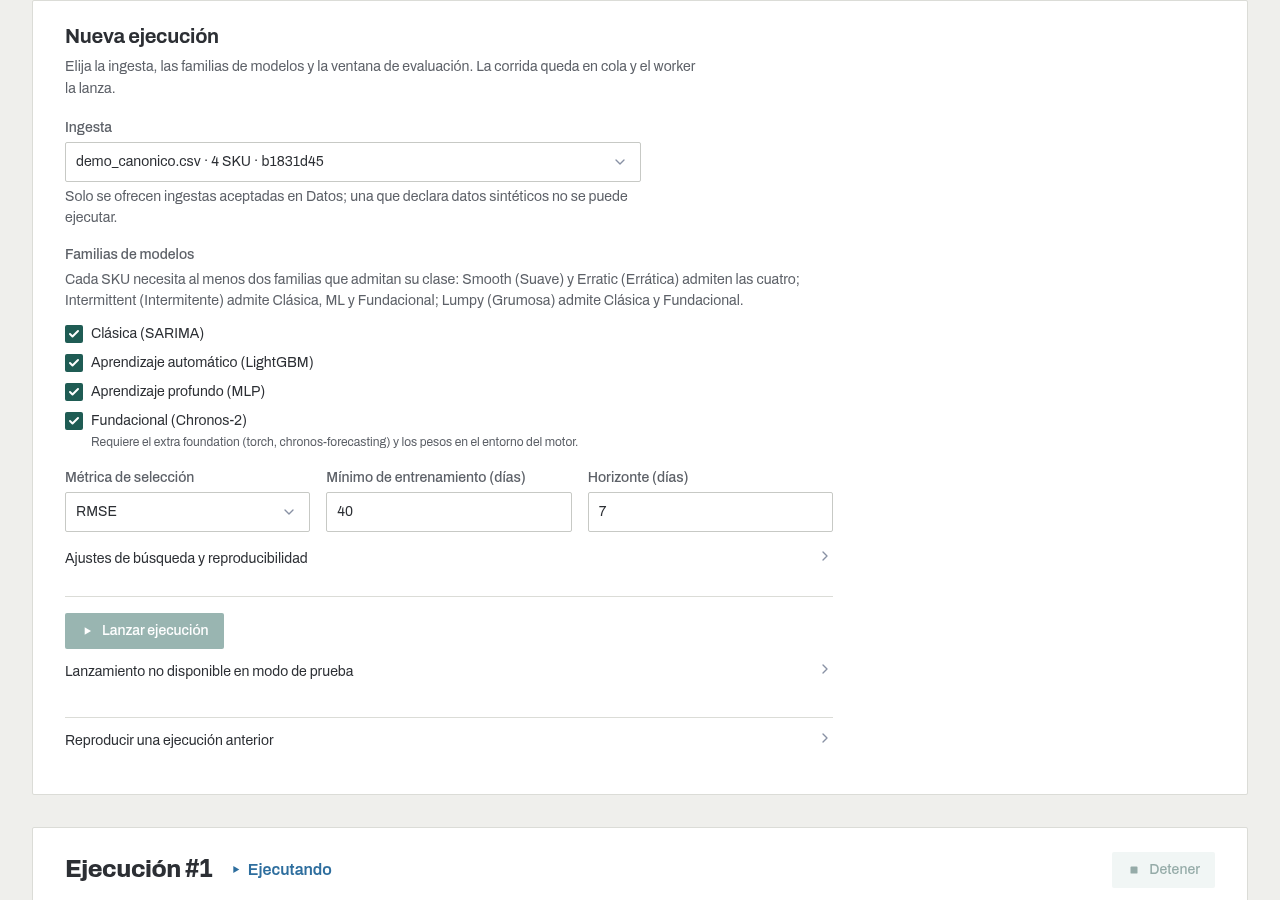
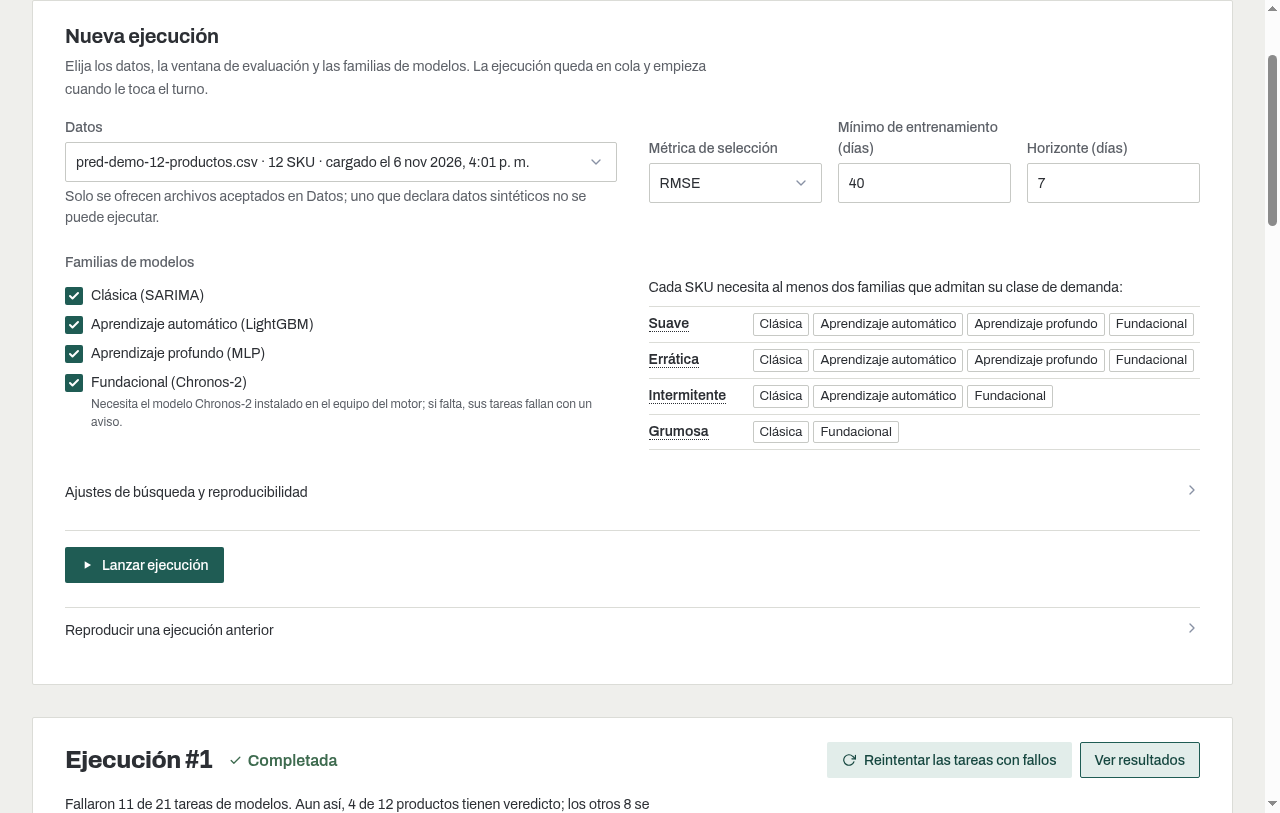
Corregir disposicion responsive, navegacion por teclado, textos de ayuda y documentacion (#255)
- Ajustar ajuste de texto en embudo y paneles de contexto para evitar desbordamiento horizontal en pantallas estrechas (390 px).
- Reemplazar capturas de ui-review con ejecucion real de datos de prueba publicados.
- Agregar foco por teclado (tabindex="0") y roles accesibles a graficos desplazables y terminos explicativos.
- Incluir marcas temporales UTC en selectores de ejecucion y de archivos de datos.
- Corregir tween de skus terminados calificado por etapa.
- Alinear textos de explicacion de veredictos no evaluables y documentacion de tareas y resumen.

Fixes #111
Fixes #115
Fixes #175
Fixes #176
Fixes #178
Fixes #179
Fixes #180
Fixes #181
Fixes #182
Fixes #183
Fixes #185
Fixes #203

diff --git a/src/pred_platform/app/templates/partials/execution_launch.html b/src/pred_platform/app/templates/partials/execution_launch.html
@@ -1,6 +1,7 @@
 {% from "components/forms.html" import field %}
 {% from "components/buttons.html" import button %}
 {% from "components/alerts.html" import alert %}
+{% from "components/terms.html" import term %}
 
 {# Los ajustes de una corrida nueva, en filas que llenan el ancho: los datos junto a la ventana de
    evaluación, las familias junto a las que admite cada clase y, plegado, lo que casi nunca
@@ -23,11 +24,11 @@
     <div class="pred-launch__row">
       <div class="pred-field{% if form_errors.get('ingest_id') %} is-error{% endif %}">
         <label class="pred-field__label" for="ingest_id">Datos</label>
-        <select class="pred-field__control" id="ingest_id" name="ingest_id" aria-describedby="ingest_id-hint{% if form_errors.get('ingest_id') %} ingest_id-error{% endif %}"{% if form_errors.get('ingest_id') %} aria-invalid="true"{% endif %}>
+        <select class="pred-field__control" id="ingest_id" name="ingest_id" aria-describedby="ingest_id-hint{% if form_errors.get('ingest_id') %} ingest_id-error{% endif %}"{% if form_errors.get('ingest_id') %} aria-invalid="true"{% endif %}{% for choice in ingests %}{% if choice.item.ingest_id == selected_ingest and choice.item.published_at %} title="{{ exact_when(choice.item.published_at) }}" data-exact-when="{{ exact_when(choice.item.published_at) }}"{% endif %}{% endfor %}>
           {% if not selected_ingest %}<option value="" selected disabled>Elija un archivo de datos</option>{% endif %}
           {% for choice in ingests %}
           {% set item = choice.item %}
-          <option value="{{ item.ingest_id }}"{% if item.ingest_id == selected_ingest %} selected{% endif %}{% if choice.synthetic %} disabled{% endif %}>{{ item.name }} · {{ format_count(item.n_skus) }} SKU{% if item.published_at %} · cargado el {{ format_when(item.published_at) }}{% endif %}{% if choice.synthetic %} · no ejecutable: datos sintéticos{% endif %}</option>
+          <option value="{{ item.ingest_id }}"{% if item.ingest_id == selected_ingest %} selected{% endif %}{% if choice.synthetic %} disabled{% endif %}{% if item.published_at %} title="{{ exact_when(item.published_at) }}"{% endif %}>{{ item.name }} · {{ format_count(item.n_skus) }} SKU{% if item.published_at %} · cargado el {{ format_when(item.published_at) }}{% endif %}{% if choice.synthetic %} · no ejecutable: datos sintéticos{% endif %}</option>
           {% endfor %}
         </select>
         <p class="pred-field__hint" id="ingest_id-hint">Solo se ofrecen archivos aceptados en Datos; uno que declara datos sintéticos no se puede ejecutar.</p>
@@ -57,7 +58,7 @@
           <ul class="pred-family-rules__list">
             {% for sku_class, families in families_hint %}
             <li class="pred-family-rules__item">
-              <span class="pred-family-rules__class" title="{{ sku_class_term(sku_class).hint }}">{{ sku_class_label(sku_class) }}</span>
+              <span class="pred-family-rules__class">{{ term(sku_class_term(sku_class)) }}</span>
               <span class="pred-family-rules__families">{% for family in families %}<span class="pred-tag">{{ family_label(family) }}</span>{% endfor %}</span>
             </li>
             {% endfor %}
@@ -71,7 +72,7 @@
     <div class="pred-launch__grid">
       {{ field("step", "Paso entre ventanas (días)", value=form.step, input_type="number", error=form_errors.get("step", "")) }}
       {{ field("seasonality", "Estacionalidad (días)", value=form.seasonality, input_type="number", error=form_errors.get("seasonality", "")) }}
-      {{ field("trials", "Configuraciones a probar por familia", value=form.trials, input_type="number", hint="Vacío: las que cada familia prueba por defecto.", error=form_errors.get("trials", "")) }}
+      {{ field("trials", "Configuraciones por familia", value=form.trials, input_type="number", hint="Vacío: las que cada familia prueba por defecto.", error=form_errors.get("trials", "")) }}
       {{ field("seed", "Semilla", value=form.seed, input_type="number", error=form_errors.get("seed", "")) }}
       {{ field("workers", "Procesos en paralelo", value=form.workers, input_type="number", error=form_errors.get("workers", "")) }}
     </div>

diff --git a/src/pred_platform/app/templates/partials/execution_body.html b/src/pred_platform/app/templates/partials/execution_body.html
@@ -1,4 +1,4 @@
-{% from "components/terms.html" import day, when %}
+{% from "components/terms.html" import day, term, when %}
 {% from "components/states.html" import empty_state, missing_run_state, unavailable_state %}
 {% from "components/progress.html" import progress_bar %}
 {% from "components/status.html" import status_indicator %}
@@ -14,7 +14,7 @@
    no dice cuándo lo leyó: pred.js tomaría la falta de lecturas por un servidor que no responde. #}
 {% macro run_pulse(run, progress, poll) %}
 <div class="pred-run__pulse" id="pulso-ejecucion"{% if run.iniciada_en %} data-pred-started="{{ run.iniciada_en.isoformat() }}"{% endif %}>
-  <p class="pred-run__pulse-now"><span class="pred-run__pulse-dot" aria-hidden="true"></span><span>Trabajando{% if current_stage %} en <strong>{{ current_stage }}</strong>{% endif %}{% if progress and progress.skus_total is not none %} · <span data-pred-tween="skus-terminados">{{ format_count(progress.skus_terminados) }}</span> de {{ format_count(progress.skus_total) }} SKU terminados en esta etapa{% endif %}</span></p>
+  <p class="pred-run__pulse-now"><span class="pred-run__pulse-dot" aria-hidden="true"></span><span>Trabajando{% if current_stage %} en <strong>{{ current_stage }}</strong>{% endif %}{% if progress and progress.skus_total is not none %} · <span data-pred-tween="skus-terminados-{{ progress.etapa_actual }}">{{ format_count(progress.skus_terminados) }}</span> de {{ format_count(progress.skus_total) }} SKU terminados en esta etapa{% endif %}</span></p>
   {% if elapsed or poll %}<p class="pred-run__pulse-time">{% if elapsed %}Lleva <span id="pulso-transcurrido">{{ elapsed }}</span>{% endif %}{% if poll %}{% if elapsed %} · {% endif %}<span id="pulso-lectura">avance leído ahora</span>{% endif %}</p>{% endif %}
 </div>
 {% endmacro %}
@@ -104,7 +104,7 @@
     {% for step in steps %}
     <li class="pred-steps__item is-{{ step.state }}"{% if step.state == "en_curso" %} aria-current="step"{% endif %}>
       <span class="pred-steps__mark" aria-hidden="true">{% if step.state == "hecha" %}<svg><use href="#i-check"></use></svg>{% else %}{{ loop.index }}{% endif %}</span>
-      <span class="pred-steps__label" title="{{ stage_term(step.code).hint }}">{{ step.label }}<span class="pred-sr-only">: {{ {"hecha": "terminada", "en_curso": "en curso", "pendiente": "pendiente"}[step.state] }}</span>{% if step.state == "en_curso" %}<span class="pred-steps__now" aria-hidden="true">En curso</span>{% endif %}</span>
+      <span class="pred-steps__label">{{ term(stage_term(step.code)) }}<span class="pred-sr-only">: {{ {"hecha": "terminada", "en_curso": "en curso", "pendiente": "pendiente"}[step.state] }}</span>{% if step.state == "en_curso" %}<span class="pred-steps__now" aria-hidden="true">En curso</span>{% endif %}</span>
     </li>
     {% endfor %}
   </ol>

diff --git a/src/pred_platform/app/templates/partials/results_summary.html b/src/pred_platform/app/templates/partials/results_summary.html
@@ -1,6 +1,6 @@
 {% from "components/tables.html" import table_start, table_end %}
 {% from "components/status.html" import status_indicator, verdict_status %}
-{% from "components/terms.html" import gloss %}
+{% from "components/terms.html" import gloss, term %}
 {# El resumen de la evaluación final resuelta (contrato v2). m3_summary es un M3Summary. Primero
    las cifras que responden «¿qué se decidió?», después el embudo que las explica y el detalle. #}
 {% if m3_summary.problem %}
@@ -62,14 +62,14 @@
   <p class="pred-note"><strong>Las cifras no cuadran.</strong> Las familias suman {{ format_count(champions.counted_total) }} productos y el embudo publicó {{ format_count(champions.published_total) }} con veredicto. Se muestran tal como se publicaron.</p>
   {% endif %}
   {% if champion_svg %}
-  <figure class="pred-chart" aria-label="Gráfico: SKU por familia campeona">
+  <figure class="pred-chart" tabindex="0" role="region" aria-label="Gráfico desplazable de campeones por familia">
     {{ champion_svg | safe }}
   </figure>
   {% endif %}
   {{ table_start(["Familia campeona", "Evaluados", "No evaluados", "SKU", "% con veredicto"], "SKU por familia campeona") }}
   {% for row in champions.portfolio %}
   <tr>
-    <th scope="row" class="pred-nowrap" title="{{ family_term(row.familia).hint }}">{{ family_label(row.familia) }}</th>
+    <th scope="row" class="pred-nowrap" tabindex="0" title="{{ family_term(row.familia).hint }}">{{ family_label(row.familia) }}</th>
     <td class="num">{{ format_count(row.n_evaluados) }}</td>
     <td class="num">{{ format_count(row.n_no_evaluados) }}</td>
     <td class="num">{{ format_count(row.n_skus) }}</td>
@@ -98,7 +98,7 @@
   {{ table_start(["Clase"] + CHAMPION_HEADERS + ["SKU"], "SKU por clase y familia campeona") }}
   {% for row in champions.classes %}
   <tr>
-    <th scope="row" class="pred-nowrap" title="{{ sku_class_term(row.sku_class).hint }}">{{ sku_class_label(row.sku_class) }}</th>
+    <th scope="row" class="pred-nowrap" tabindex="0" title="{{ sku_class_term(row.sku_class).hint }}">{{ sku_class_label(row.sku_class) }}</th>
     {% for family in CHAMPION_FAMILIES %}
     <td class="num{% if not row.counts[family] %} is-zero{% endif %}">{{ format_count(row.counts[family]) }}</td>
     {% endfor %}

diff --git a/src/pred_platform/app/templates/partials/results_classes.html b/src/pred_platform/app/templates/partials/results_classes.html
@@ -1,5 +1,5 @@
 {% from "components/tables.html" import table_start, table_end %}
-{% from "components/terms.html" import gloss %}
+{% from "components/terms.html" import gloss, term %}
 {# La cifra exacta guardada como título de la celda que la muestra redondeada. #}
 {% macro exact(value) %}{% if value is not none %} title="{{ exact_text(value) }}"{% endif %}{% endmacro %}
 {% macro exact_interval(lower, upper) %}{% if lower is not none and upper is not none %} title="[{{ exact_text(lower) }}; {{ exact_text(upper) }}]"{% endif %}{% endmacro %}
@@ -18,8 +18,8 @@
   {{ table_start(["Clase", "Campeona", "Motivo"] + class_headers, "Campeón y mediana de r por clase") }}
   {% for row in m3_classes.rows %}
   <tr>
-    <td class="pred-nowrap" title="{{ sku_class_term(row.sku_class).hint }}">{{ sku_class_label(row.sku_class) }}</td>
-    <td>{{ family_label(row.familia_campeona) }}</td>
+    <td class="pred-nowrap">{{ term(sku_class_term(row.sku_class)) }}</td>
+    <td>{{ term(family_term(row.familia_campeona)) }}</td>
     <td>{{ motivos.get(row.motivo, row.motivo) }}</td>
     {% for family in class_families %}
     <td class="num{% if family == row.familia_campeona %} is-champion{% endif %}"{% if family in row.medianas_r %}{{ exact(row.medianas_r[family]) }}{% endif %}>{% if family in row.medianas_r %}{{ ratio_text(row.medianas_r[family]) }}{% if family == row.familia_campeona %} <span class="pred-badge pred-badge--champion">campeona</span>{% endif %}{% else %}—{% endif %}</td>
@@ -92,7 +92,7 @@
   {{ table_start(["Clase", "SKU probados", "Mejores (BH)", "Peores (BH)", "Mejores (BY)", "Peores (BY)", "Nivel FCR"], "Significancia HLN-DM por clase") }}
   {% for row in m3_classes.significance %}
   <tr>
-    <td class="pred-nowrap" title="{{ sku_class_term(row.sku_class).hint }}">{{ sku_class_label(row.sku_class) }}</td>
+    <td class="pred-nowrap">{{ term(sku_class_term(row.sku_class)) }}</td>
     <td class="num">{{ format_count(row.n_probados) }}</td>
     <td class="num">{{ format_count(row.n_mejores) }}</td>
     <td class="num">{{ format_count(row.n_peores) }}</td>

diff --git a/src/pred_platform/app/templates/partials/results_consulta.html b/src/pred_platform/app/templates/partials/results_consulta.html
@@ -2,7 +2,7 @@
 {% from "components/buttons.html" import button %}
 {% from "components/alerts.html" import alert %}
 {% from "components/status.html" import status_indicator, verdict_legend %}
-{% from "components/terms.html" import gloss %}
+{% from "components/terms.html" import gloss, term %}
 {% from "components/tables.html" import table_start, table_end, table_empty %}
 {# Los veredictos de la evaluación final resuelta, uno por SKU (RF-CON-05). m3_consulta es un
    M3Consulta; cq, su consulta. El repositorio filtra, ordena y pagina; aquí solo se muestra. #}
@@ -60,9 +60,9 @@
     {% for row in evidence.items %}
     <tr>
       <th scope="row" class="pred-sku"><a class="mono" href="/resultados/sku/{{ row.sku | urlencode }}?{{ cq.detail_query() }}" aria-label="Ver evidencia del SKU {{ row.sku }}">{{ row.sku }}</a></th>
-      <td class="pred-demand-class" title="{{ sku_class_term(row.sku_class).hint }}">{{ sku_class_label(row.sku_class) }}</td>
+      <td class="pred-demand-class">{{ term(sku_class_term(row.sku_class)) }}</td>
       {% set model = champion_model(row) %}
-      <td><span class="pred-nowrap" title="{{ family_term(row.familia_campeona).hint }}">{{ family_label(row.familia_campeona) }}</span>{% if model %}<span class="pred-subvalue" title="{{ model_term(model).hint }}">{{ model_label(model) }}</span>{% endif %}</td>
+      <td><span class="pred-nowrap">{{ term(family_term(row.familia_campeona)) }}</span>{% if model %}<span class="pred-subvalue">{{ term(model_term(model)) }}</span>{% endif %}</td>
       <td class="pred-verdict-cell">{{ status_indicator(describe_status("verdict", row.veredicto)) }}</td>
       <td class="num">{{ ratio_text(row.razon_sn) }}</td>
       <td class="num">{{ format_count(row.n_ventanas) }}<span class="pred-subvalue">mínimo {{ format_count(row.n_min) }}</span></td>

diff --git a/src/pred_platform/app/templates/components/run_picker.html b/src/pred_platform/app/templates/components/run_picker.html
@@ -6,11 +6,13 @@
 <form method="get" action="/resultados" class="pred-context__picker" id="elegir-ejecucion">
   <input type="hidden" name="vista" value="{{ vista }}">
   {% if lista == "familias" %}<input type="hidden" name="lista" value="familias">{% endif %}
+  {% set selected_choice = (executions | selectattr("ejecucion_id", "equalto", shown_id) | list | first) if shown_id is not none else (executions | first if executions else none) %}
+  {% set selected_title = exact_when(selected_choice.iniciada_en) if selected_choice and selected_choice.iniciada_en else "" %}
   <label class="pred-field__label" for="ejecucion-mostrada">Ejecución</label>
-  <select class="pred-field__control" id="ejecucion-mostrada" name="ejecucion">
+  <select class="pred-field__control" id="ejecucion-mostrada" name="ejecucion"{% if selected_title %} title="{{ selected_title }}" data-exact-when="{{ selected_title }}"{% endif %}>
     {% if shown_id is not none and shown_id not in known %}<option value="{{ shown_id }}" selected>#{{ shown_id }} · sin evaluación publicada</option>{% endif %}
     {% for choice in executions %}
-    <option value="{{ choice.ejecucion_id }}"{% if choice.ejecucion_id == shown_id %} selected{% endif %}>#{{ choice.ejecucion_id }} · {{ describe_status("run", choice.estado).label }} · {{ format_when(choice.iniciada_en) }}</option>
+    <option value="{{ choice.ejecucion_id }}"{% if choice.ejecucion_id == shown_id %} selected{% endif %}{% if choice.iniciada_en %} title="{{ exact_when(choice.iniciada_en) }}"{% endif %}>#{{ choice.ejecucion_id }} · {{ describe_status("run", choice.estado).label }} · {{ format_when(choice.iniciada_en) }}</option>
     {% endfor %}
   </select>
   {{ button("Mostrar", variant="subtle", type="submit") }}

diff --git a/src/pred_platform/app/static/js/pred.js b/src/pred_platform/app/static/js/pred.js
@@ -31,6 +31,29 @@
     destino.remove();
   });
 
+  document.addEventListener("change", function (evento) {
+    const entrada = evento.target;
+    if (!entrada.matches || !entrada.matches("select")) return;
+    const opt = entrada.selectedOptions && entrada.selectedOptions[0];
+    if (opt && opt.title) {
+      entrada.title = opt.title;
+      entrada.dataset.exactWhen = opt.title;
+    } else {
+      entrada.removeAttribute("title");
+      delete entrada.dataset.exactWhen;
+    }
+  });
+
+  function sincronizarTitulosSelect(raiz) {
+    const origen = raiz && raiz.querySelectorAll ? raiz : document;
+    origen.querySelectorAll("select").forEach(function (sel) {
+      const opt = sel.selectedOptions && sel.selectedOptions[0];
+      if (opt && opt.title && !sel.title) {
+        sel.title = opt.title;
+        sel.dataset.exactWhen = opt.title;
+      }
+    });
+  }
   function colorProgreso(pct) {
     const desde = [46, 110, 158];
     const hasta = [62, 107, 79];
@@ -352,6 +375,7 @@
     window.setInterval(latido, 1000);
     prepararEvidencia(document);
     pintarBarras(document);
+    sincronizarTitulosSelect(document);
     actualizarSondeo();
     // Tras un envío inválido, el primer campo lleva al error sin recorrer la página de nuevo.
     const invalido = document.querySelector('[aria-invalid="true"]:not(:disabled)');
@@ -371,6 +395,7 @@
     if (evento.target === cuerpo()) fijarFase();
     prepararEvidencia(evento.target);
     pintarBarras(evento.target);
+    sincronizarTitulosSelect(evento.target);
     if (evento.target === cuerpo()) {
       evento.target.querySelectorAll("details[id]").forEach(function (detalle) {
         if (aperturas.has(detalle.id)) detalle.open = aperturas.get(detalle.id);

diff --git a/src/pred_platform/app/templates/partials/results_profiles.html b/src/pred_platform/app/templates/partials/results_profiles.html
@@ -1,4 +1,5 @@
 {% from "components/tables.html" import table_start, table_end %}
+{% from "components/terms.html" import term %}
 {# Los perfiles de error de la evaluación final resuelta (m3_cartera). m3_profiles es un
    M3Profiles. #}
 {% if m3_profiles.problem %}
@@ -17,8 +18,8 @@
   {{ table_start(["Clase", "Familia", "Media", "Mediana", "p25", "p75", "SKU", "Instancias", "No calculables"], "Perfiles de error de la ejecución") }}
   {% for row in m3_profiles.rows %}
   <tr{% if loop.first or row.sku_class != loop.previtem.sku_class %} class="pred-table__group-start"{% endif %}>
-    <td class="pred-demand-class">{% if loop.first or row.sku_class != loop.previtem.sku_class %}<span title="{{ sku_class_term(row.sku_class).hint }}">{{ sku_class_label(row.sku_class) }}</span>{% else %}<span class="pred-sr-only">{{ sku_class_label(row.sku_class) }}</span>{% endif %}</td>
-    <td class="pred-nowrap" title="{{ family_term(row.familia).hint }}">{{ family_label(row.familia) }}</td>
+    <td class="pred-demand-class">{% if loop.first or row.sku_class != loop.previtem.sku_class %}{{ term(sku_class_term(row.sku_class)) }}{% else %}<span class="pred-sr-only">{{ sku_class_label(row.sku_class) }}</span>{% endif %}</td>
+    <td class="pred-nowrap">{{ term(family_term(row.familia)) }}</td>
     {% for value in (row.media, row.mediana, row.p25, row.p75) %}
     <td class="num"{% if value is not none %} title="{{ exact_text(value) }}"{% endif %}>{% if value is none %}—{% elif m3_profiles.metrica == "razon_sn" %}{{ ratio_text(value) }}{% else %}{{ format_decimal(value, 3) }}{% endif %}</td>
     {% endfor %}

diff --git a/src/pred_platform/app/templates/partials/data_topology.html b/src/pred_platform/app/templates/partials/data_topology.html
@@ -4,7 +4,7 @@
 {% from "components/tables.html" import table_start, table_end, table_empty %}
 {% from "components/states.html" import unavailable_state %}
 {% from "components/evidence.html" import evidence_panel %}
-{% from "components/terms.html" import day, gloss %}
+{% from "components/terms.html" import day, gloss, term %}
 
 {% if not topology_details %}
 {# Dentro del resumen del archivo: cuántos SKU hay de cada clase y el paso siguiente. #}
@@ -47,7 +47,7 @@
 
     {% if topology.availability.status == "available" %}
       <p class="pred-meta" id="alcance-topologia">Los conteos resumen todo el archivo. El gráfico y la tabla muestran únicamente los SKU de la página filtrada actual.</p>
-      <div class="pred-chart" aria-describedby="alcance-topologia">
+      <div class="pred-chart" tabindex="0" role="region" aria-label="Gráfico desplazable de clases de demanda" aria-describedby="alcance-topologia">
         {{ chart_svg | safe }}
       </div>
 
@@ -84,7 +84,7 @@
         {% for row in topology.items %}
         <tr>
           <th scope="row" class="pred-sku"><span class="mono">{{ row.sku_id }}</span></th>
-          <td class="pred-demand-class" title="{{ sku_class_term(row.sku_class).hint }}">{{ sku_class_label(row.sku_class) }}</td>
+          <td class="pred-demand-class">{{ term(sku_class_term(row.sku_class)) }}</td>
           <td class="num">{{ format_decimal(row.adi, 3) }}</td>
           <td class="num">{{ format_decimal(row.cv2, 3) }}</td>
           <td class="num">{{ format_count(row.n_periods) }}</td>

diff --git a/src/pred_platform/app/static/css/pred.css b/src/pred_platform/app/static/css/pred.css
@@ -1690,6 +1690,23 @@ button.pred-btn--large {
   color: var(--primary-dark);
 }
 
+/* Ayudas cortas de clase, familia, modelo y etapa (#182). */
+.pred-term {
+  border-bottom: 1px dotted;
+  cursor: help;
+  text-decoration: none;
+}
+
+abbr[title] {
+  border-bottom: 1px dotted;
+  cursor: help;
+  text-decoration: none;
+}
+
+:is(.pred-term, abbr[title]):is(:hover, :focus)::after {
+  content: " (" attr(title) ")";
+}
+
 /* ------------------------------------------------------------- Estados */
 .pred-state {
   max-width: 30rem;
@@ -1899,6 +1916,11 @@ button.pred-btn--large {
   margin: 0;
   color: var(--ink-soft);
   font-size: 0.875rem;
+  overflow-wrap: anywhere;
+}
+
+:is(.pred-facts, .pred-context__facts) dd > * {
+  min-width: 0;
 }
 
 :is(.pred-facts, .pred-context__facts) .pred-status {
@@ -3223,6 +3245,10 @@ button.pred-btn--large {
   margin: 0 0 var(--space-3);
 }
 
+.pred-launch__advanced .pred-launch__grid {
+  align-items: end;
+}
+
 .pred-launch__submit {
   display: flex;
   flex-wrap: wrap;
@@ -3246,6 +3272,11 @@ button.pred-btn--large {
 
 .pred-launch__import .pred-filters--bar {
   margin-top: var(--space-2);
+}
+
+#importar-configuracion .pred-field {
+  flex: 1 1 24rem;
+  max-width: none;
 }
 
 /* --------------------------------------------------- Superficie Resultados */
@@ -3405,6 +3436,10 @@ button.pred-btn--large {
   font-family: var(--font-mono);
   text-align: right;
   white-space: nowrap;
+}
+
+.pred-funnel .mono {
+  overflow-wrap: anywhere;
 }
 
 .pred-funnel .pred-status {

diff --git a/src/pred_platform/app/templates/pages/results_sku.html b/src/pred_platform/app/templates/pages/results_sku.html
@@ -2,7 +2,7 @@
 {% from "components/metrics.html" import metrics_row %}
 {% from "components/states.html" import unavailable_state %}
 {% from "components/status.html" import status_indicator, verdict_status %}
-{% from "components/terms.html" import day, gloss, when %}
+{% from "components/terms.html" import day, gloss, term, when %}
 {% from "components/tables.html" import table_start, table_end %}
 
 {% macro r_interval(row, exact=false) -%}
@@ -120,8 +120,8 @@
       {% if model.candidato_id == verdict.candidato_campeon %}{% set _ = roles.append("Campeón") %}{% endif %}
       {% if model.familia == "seasonal_naive" %}{% set _ = roles.append("Línea base") %}{% endif %}
       <tr{% if model.candidato_id == verdict.candidato_campeon %} class="is-champion"{% endif %}>
-        <td class="pred-nowrap" title="{{ family_term(model.familia).hint }}">{{ family_label(model.familia) }}</td>
-        <td title="{{ model_term(model.modelo).hint }}">{{ model_label(model.modelo) }}</td>
+        <td class="pred-nowrap">{{ term(family_term(model.familia)) }}</td>
+        <td>{{ term(model_term(model.modelo)) }}</td>
         <td class="num"{% if model.razon_sn is not none %} title="{{ exact_text(model.razon_sn) }}"{% endif %}>{% if model.razon_sn is not none %}{{ ratio_text(model.razon_sn) }}{% else %}no calculable{% endif %}</td>
         <td>{{ roles | join(" · ") or "—" }}</td>
       </tr>

diff --git a/src/pred_platform/app/templates/components/terms.html b/src/pred_platform/app/templates/components/terms.html
@@ -1,9 +1,9 @@
 {# Un código del contrato con su etiqueta en español y su explicación como title (un Term de
    presentation). #}
-{% macro term(t) %}{% if t.hint %}<span class="pred-term" title="{{ t.hint }}">{{ t.label }}</span>{% else %}{{ t.label }}{% endif %}{% endmacro %}
+{% macro term(t) %}{% if t.hint %}<abbr class="pred-term" tabindex="0" title="{{ t.hint }}">{{ t.label }}</abbr>{% else %}{{ t.label }}{% endif %}{% endmacro %}
 
 {# Un término de la tesis que se conserva (RMSE, HLN-DM, BH…) con su explicación llana. #}
-{% macro gloss(word, shown=none) %}{% set hint = glossary_hint(word) %}{% if hint %}<abbr title="{{ hint }}">{{ shown or word }}</abbr>{% else %}{{ shown or word }}{% endif %}{% endmacro %}
+{% macro gloss(word, shown=none) %}{% set hint = glossary_hint(word) %}{% if hint %}<abbr tabindex="0" title="{{ hint }}">{{ shown or word }}</abbr>{% else %}{{ shown or word }}{% endif %}{% endmacro %}
 
 {# Un instante del contrato en la hora de Bogotá; el instante exacto en UTC queda en el title.
    Termina en «a. m.» o «p. m.»: al final de una frase, ese punto es el punto final. #}
